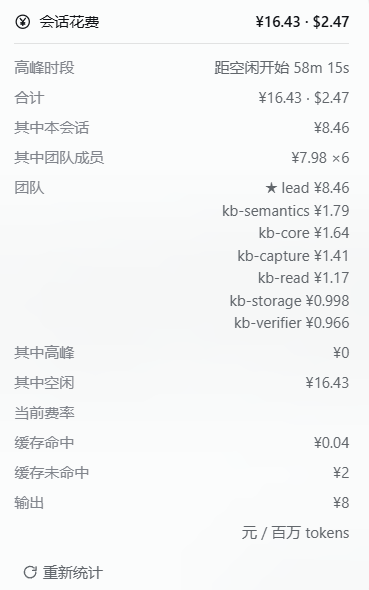
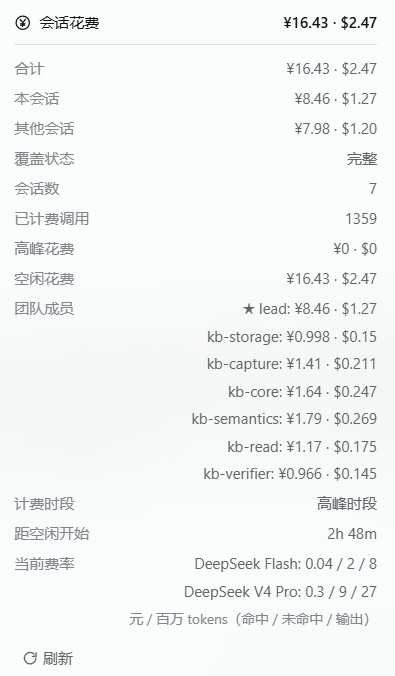
Show the re-shot panels, and put the screenshots back in the README
Both panels were captured against the 2.0 panel: the session one carries the Refresh button, the partial coverage reason and no token or per-model rows; the team one shows a complete seven-session scope with the roster and the Lead marked ★.

The README gained the Screenshots section the rewrite had dropped, with captions that match what the images actually show, and assets/README.md stops describing the removed recount button and rows.

diff --git a/assets/README.md b/assets/README.md
@@ -8,12 +8,14 @@ carousel shows them in.
 
 | File | Shows |
 | --- | --- |
-| `pill-off-peak.png` | The composer pill in the off-peak tier: the session cost in CNY with the tier beside it, in the neutral colour. |
-| `pill-peak.png` | The same pill during peak hours: the capsule switches to the warning colour, and the tier is still spelled out in words rather than signalled by colour alone. |
-| `panel-session.png` | The detail panel for a single session: the total in CNY and USD, the current tier with a countdown, the peak / off-peak split, the rates in force, and the recount button. |
-| `panel-team.png` | The same panel for an agent-team session: the total split into "of which this session" and "of which team members ×N", with the roster below and the Lead marked ★. |
+| `pill-off-peak.png` | The composer pill in the off-peak tier: this session's cost in CNY with the tier written as a word (谷), in the neutral colour. |
+| `pill-peak.png` | The same figure during peak hours: the tier reads 峰 and the capsule switches to the warning colour, so the tier never rests on colour alone. |
+| `panel-session.png` | The detail panel for one delegating session: the total in CNY and USD, the this-session / other-session split, the peak / off-peak split, coverage (partial, naming the unknown-model reason), the session and priced-call counts, the period with a countdown, the rates in force, and the Refresh button. Token buckets and the per-model breakdown are deliberately absent; they stay in `/cost`, `session_cost` and `detail=full`. |
+| `panel-team.png` | The same panel for a Team scope: the total with the requesting seat's own share, coverage complete across seven sessions, the roster with the Lead marked ★ and one money figure per member, and the rates in force. |
 
-All four were captured in a Chinese UI; the labels follow the app's language.
-Between 1 and 8 images are allowed, and PNG or JPEG are both fine. Keep personal
-data out of frame, and prefer names that say what the picture shows rather than
-when it was taken — a dated filename rots the moment it is re-shot.
+All four were captured in a Chinese UI; the labels follow the app's language. The
+two panels were re-shot against the 2.0 panel, so they show the Refresh button and
+no longer carry the token or per-model rows. Between 1 and 8 images are allowed, and
+PNG or JPEG are both fine. Keep personal data out of frame, and prefer names that say
+what the picture shows rather than when it was taken — a dated filename rots the
+moment it is re-shot.

diff --git a/README.md b/README.md
@@ -21,7 +21,7 @@ What that buys you:
 - **Honest delegation and team totals** — `self`, `tree` and `team` scopes resolved from durable subagent catalogs and the team roster, with `own` always meaning *this session* and `others = total − own`.
 - **Lightweight by construction** — no replay framework, no database, no polling loop. Built artifacts: client ≈ **9.3 KiB gzip**, host ≈ **10.3 KiB gzip**.
 
-**Contents:** [Requirements](#requirements) · [Install](#install) · [Usage](#usage) · [HTTP](#http) · [Rates](#rates) · [Configuration](#configuration) · [What it does not promise](#what-it-does-not-promise) · [Development](#development) · [Migrating from 1.x](#migrating-from-1x) · [License](#license)
+**Contents:** [Requirements](#requirements) · [Install](#install) · [Usage](#usage) · [Screenshots](#screenshots) · [HTTP](#http) · [Rates](#rates) · [Configuration](#configuration) · [What it does not promise](#what-it-does-not-promise) · [Development](#development) · [Migrating from 1.x](#migrating-from-1x) · [License](#license)
 
 ## Requirements
 
@@ -66,6 +66,18 @@ Clicking the pill (or pressing Enter on it) opens a trigger-anchored dialog: tot
 | --- | --- |
 | `/cost [sessionId] [auto\|self\|tree\|team]` | Prints the same summary the pill shows, including coverage warnings. |
 | `session_cost` | Lets the assistant read a session's estimate; defaults to the calling session. |
+
+## Screenshots
+
+The composer pill in both tiers, and the panel for one session and for a Team scope (captured in a Chinese UI; the labels follow the app's language):
+
+| Off-peak | Peak |
+| --- | --- |
+| ![The pill in the off-peak tier: this session's cost in CNY with the tier written as the word 谷, in the neutral colour](assets/pill-off-peak.png) | ![The same figure during peak hours: the tier reads 峰 and the capsule switches to the warning colour](assets/pill-peak.png) |
+
+![The detail panel for one session: total in CNY and USD, this-session and other-session split, partial coverage naming the unknown-model reason, session and priced-call counts, the peak and off-peak split, the period with a countdown, the rates in force, and the Refresh button](assets/panel-session.png)
+
+![The detail panel for a Team scope: the total with the requesting seat's own share, complete coverage across seven sessions, and the roster with the Lead marked ★ and one money figure per member](assets/panel-team.png)
 
 ## HTTP
 
